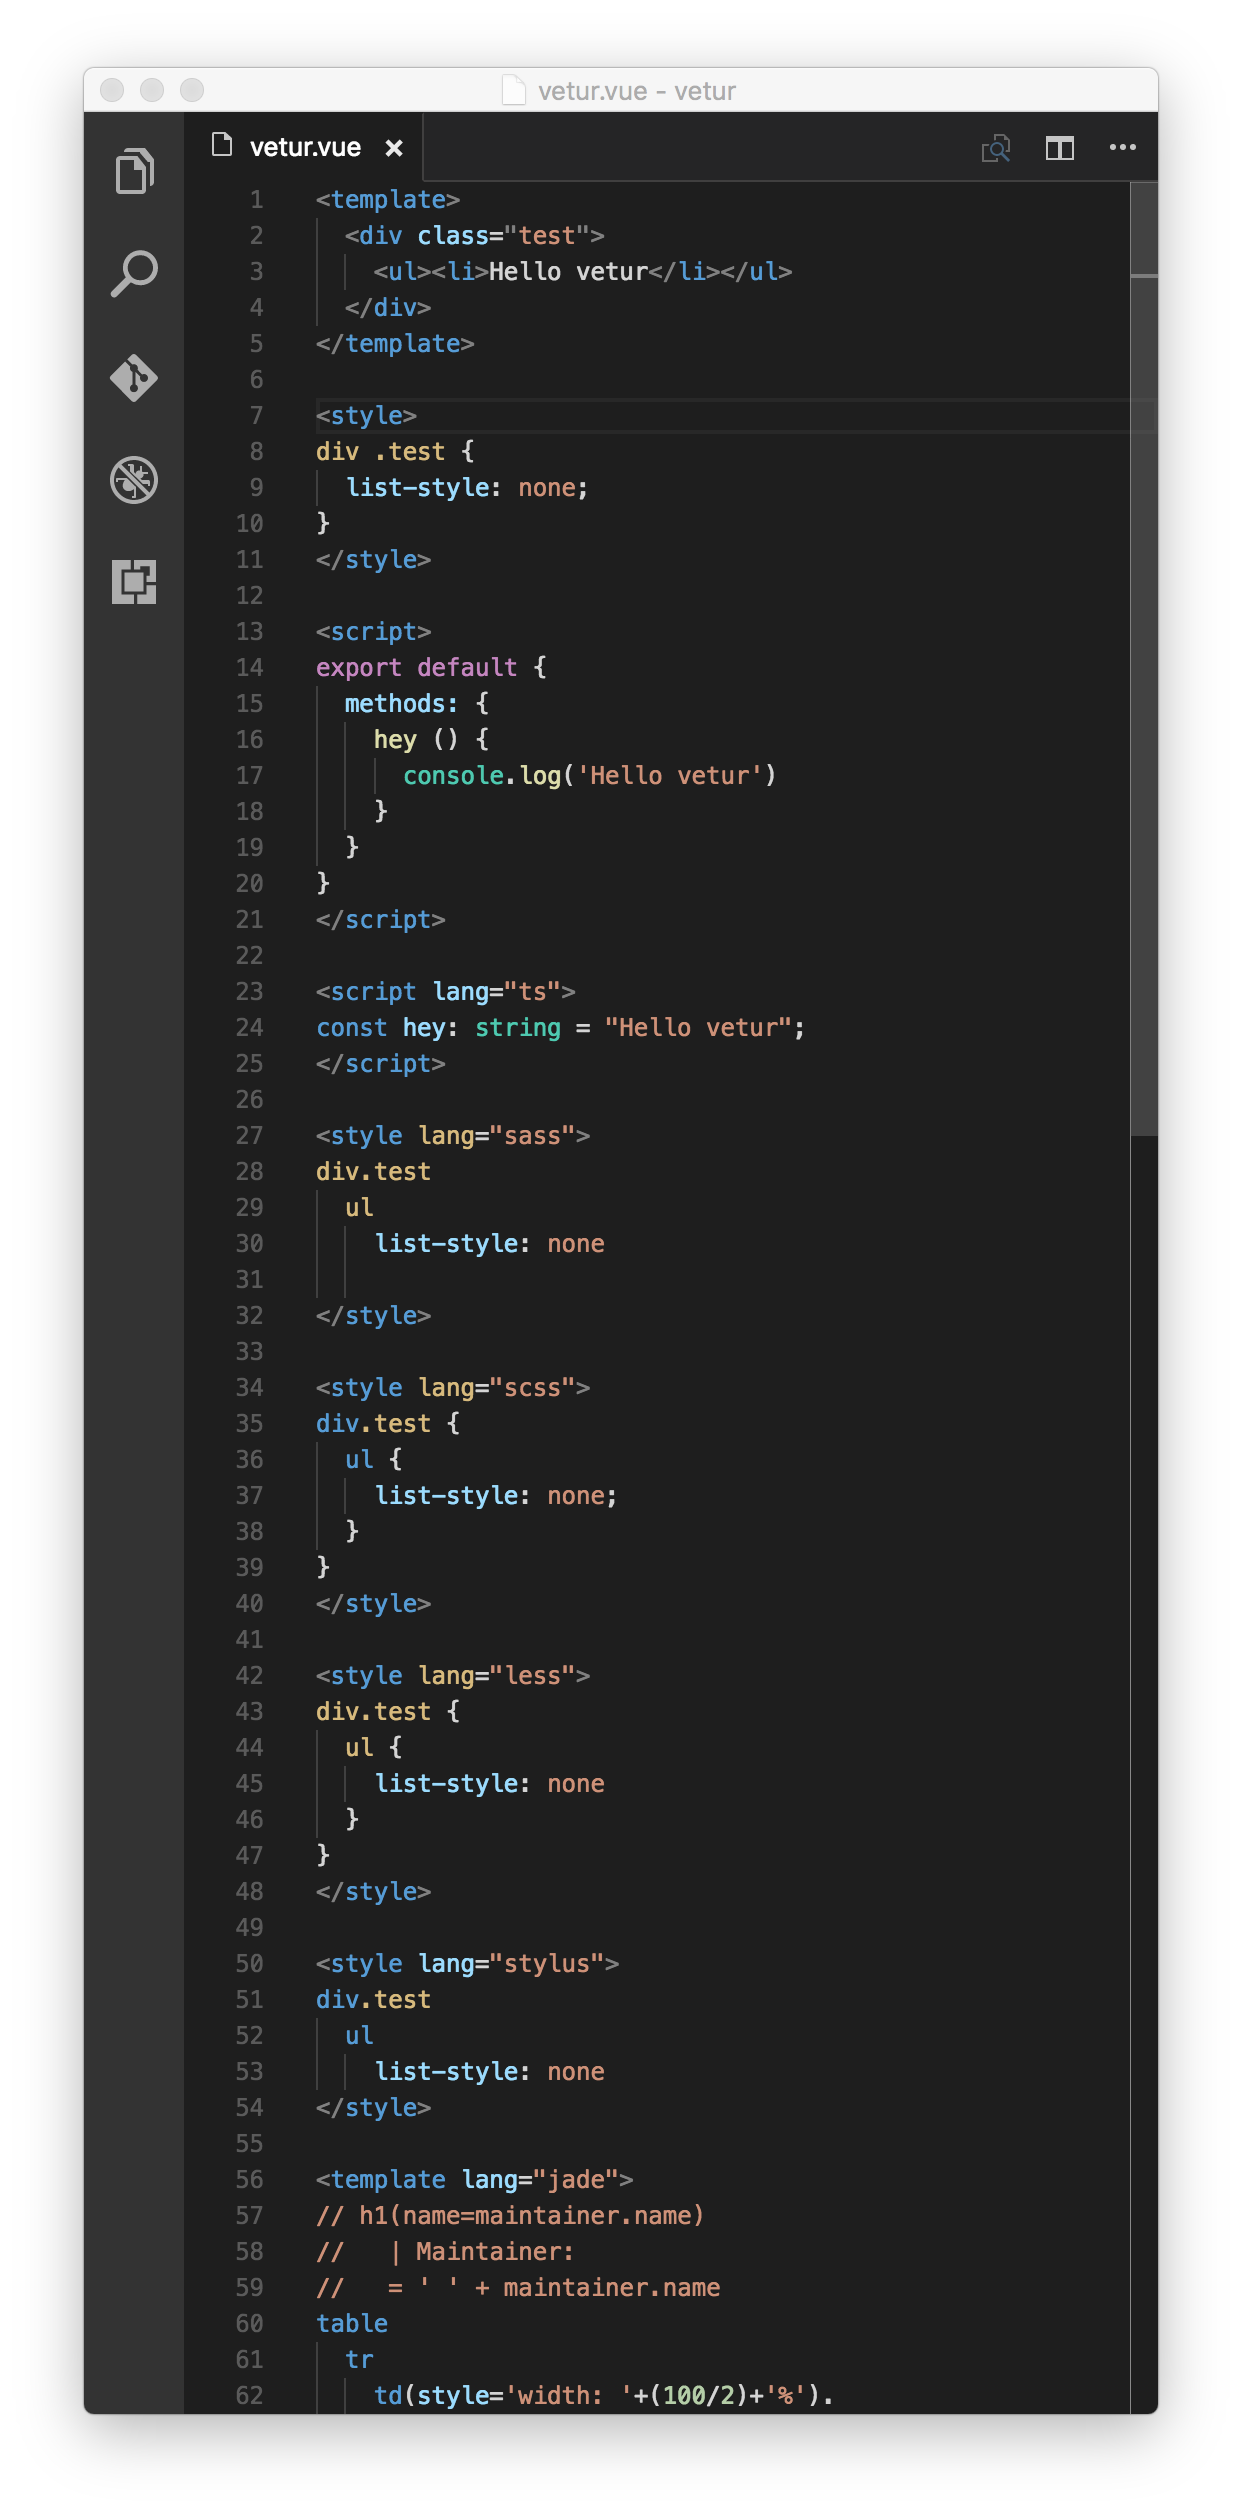
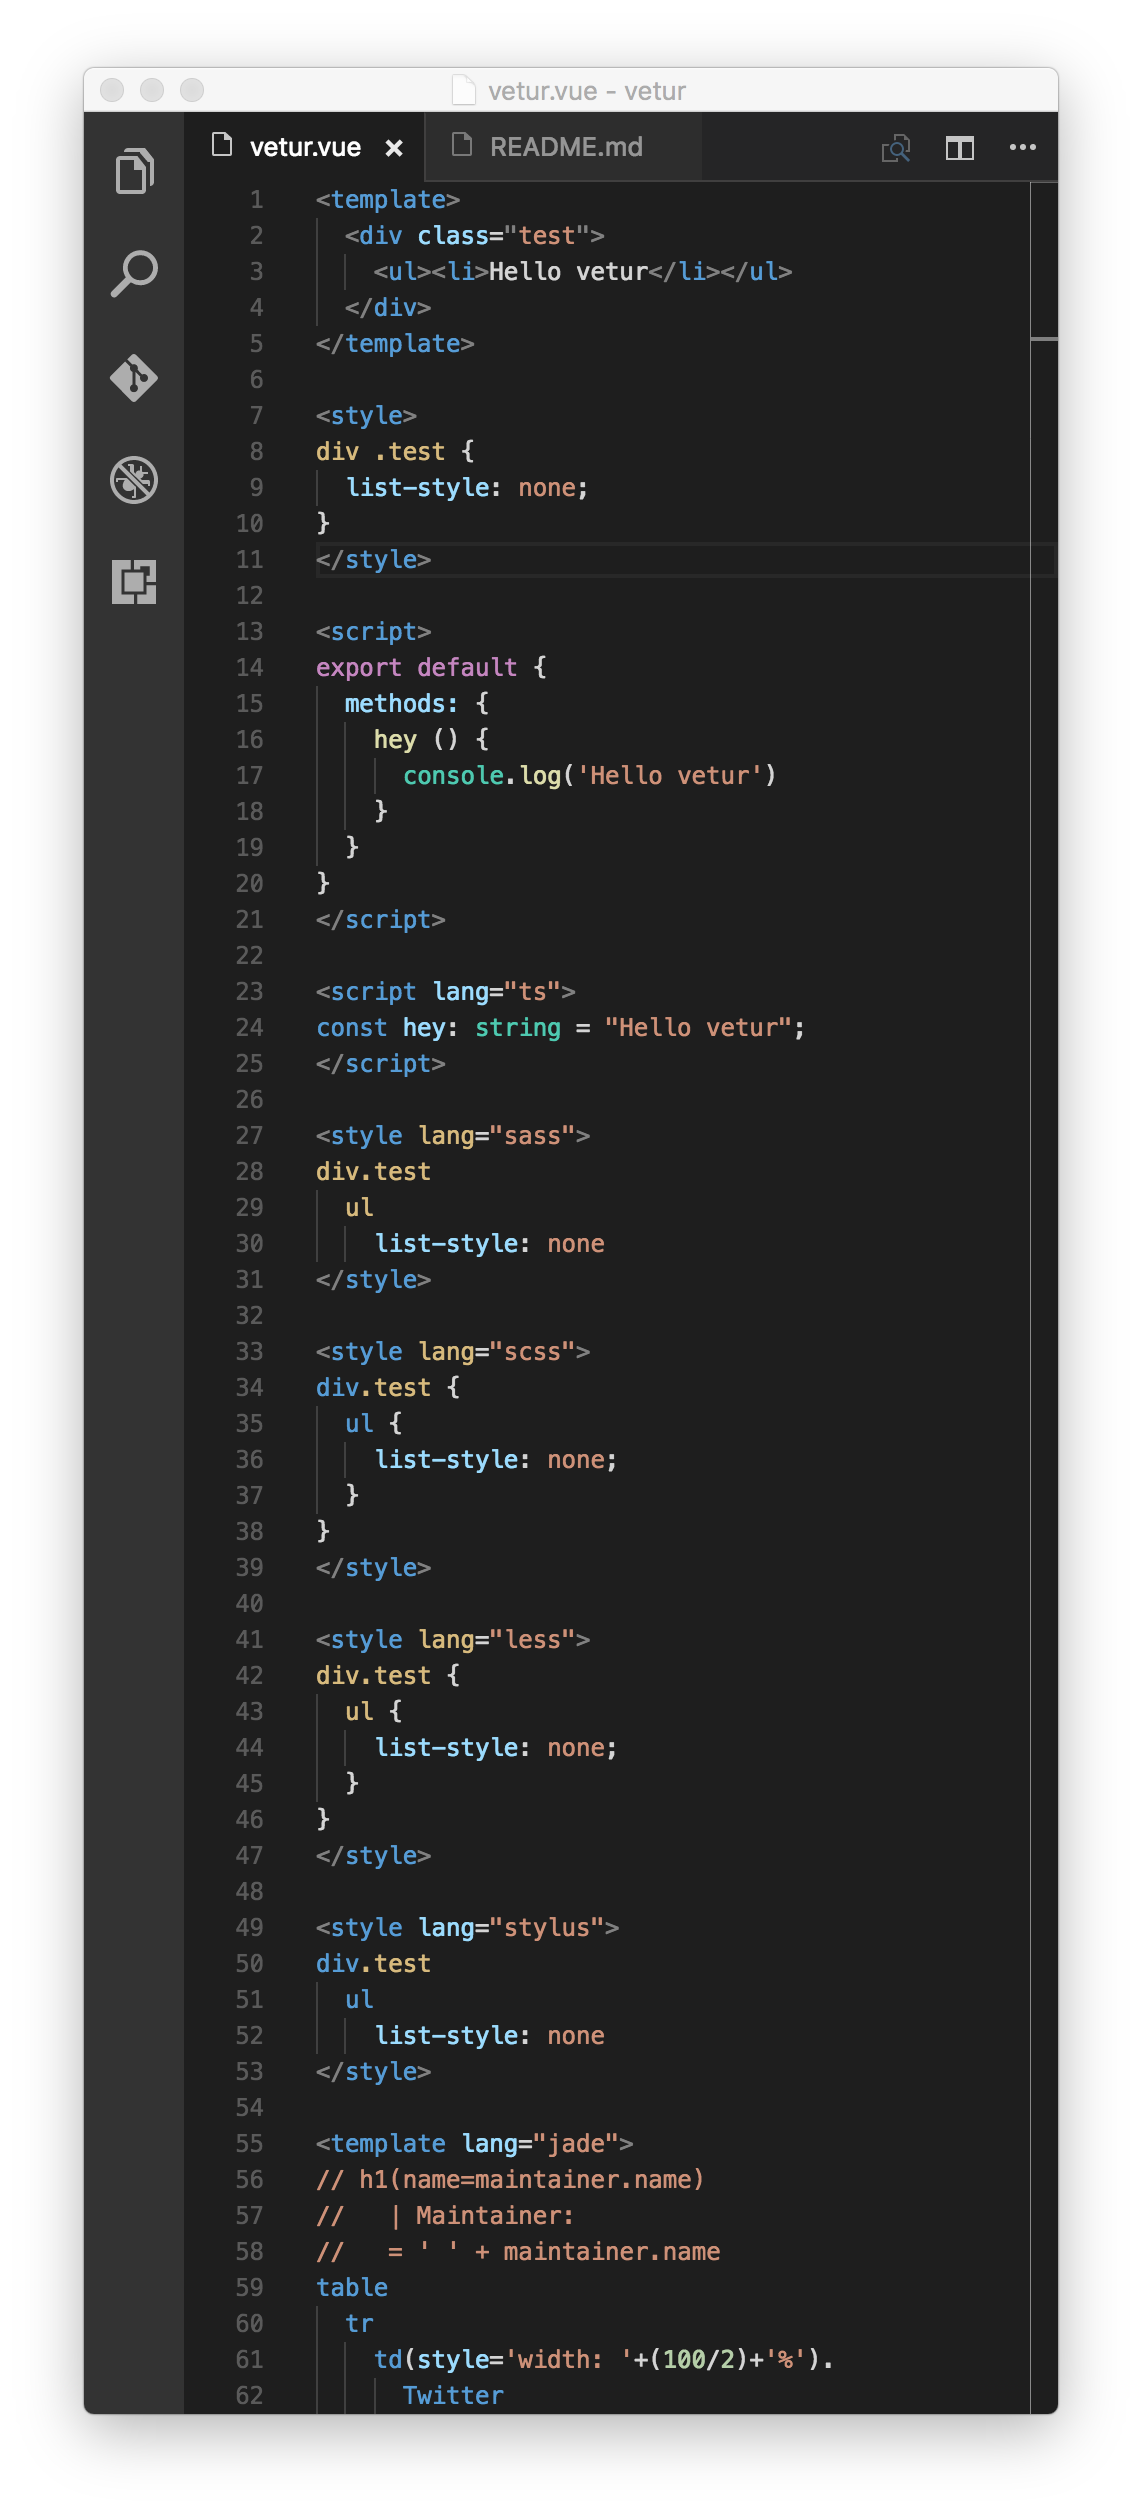
Minor fix for demo file and update img

diff --git a/demo/vetur.vue b/demo/vetur.vue
@@ -28,7 +28,6 @@ const hey: string = "Hello vetur";
 div.test
   ul
     list-style: none
-
 </style>
 
 <style lang="scss">
@@ -42,7 +41,7 @@ div.test {
 <style lang="less">
 div.test {
   ul {
-    list-style: none
+    list-style: none;
   }
 }
 </style>
